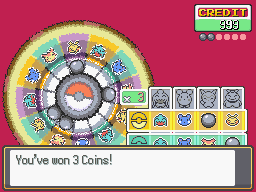
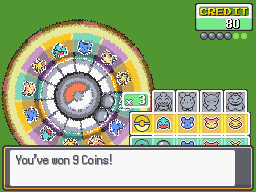
Fix roulette position when it spins

diff --git a/Script.rb b/Script.rb
@@ -36,7 +36,7 @@
 if defined?(PluginManager) && !PluginManager.installed?("Roulette Minigame")
   PluginManager.register({                                                 
     :name    => "Roulette Minigame",                                        
-    :version => "1.1",                                                     
+    :version => "1.1.1",                                                     
     :link    => "https://www.pokecommunity.com/showthread.php?t=318598",             
     :credits => "FL"
   })
@@ -108,11 +108,15 @@ class RouletteScene
       end  
       @indexX = x
       @indexY = y
-      @sprite.x=@tableX-2+@indexX*48
+      refreshSpritePos
+      resetframeCount
+    end
+
+    def refreshSpritePos(extraX=0)
+      @sprite.x=@tableX-2+@indexX*48+extraX
       @sprite.x+=4 if @indexX==0 
       @sprite.y=@tableY-2+@indexY*48
       @sprite.y+=4 if @indexY==0 
-      resetframeCount
     end
     
     def bentPositions
@@ -179,11 +183,15 @@ class RouletteScene
       @balls[i].oy=balls[i].bitmap.height
     end  
     
-    def sumX(value)
-      @roulette.x+=value
+    def x=(value)
+      @roulette.x=value
       for ball in @balls
-        ball.x+=value
+        ball.x=value
       end  
+    end
+    
+    def y=(value)
+      @roulette.y=value
     end
     
     def sumAngle(value)
@@ -211,22 +219,16 @@ class RouletteScene
       @sprites["background"].bitmap.height, @backgroundColor
     )
     @sprites["roulette"]=IconSprite.new(0,0,@viewport)
-    @sprites["roulette"].setBitmap("Graphics/Pictures/Roulette/roulette")
-    @sprites["roulette"].x=@sprites["roulette"].bitmap.width/2+4
-    @sprites["roulette"].y=Graphics.height/2    
+    @sprites["roulette"].setBitmap("Graphics/Pictures/Roulette/roulette")    
     @sprites["roulette"].ox=@sprites["roulette"].bitmap.width/2
     @sprites["roulette"].oy=@sprites["roulette"].bitmap.height/2
     @roulette=RouletteObject.new(@sprites["roulette"])
     @sprites["table"]=IconSprite.new(0,0,@viewport)
     @sprites["table"].setBitmap("Graphics/Pictures/Roulette/table")
-    @sprites["table"].x=Graphics.width-@sprites["table"].bitmap.width-10
-    @sprites["table"].y=Graphics.height-@sprites["table"].bitmap.height-10
     @sprites["multiplierbox"]=IconSprite.new(0,0,@viewport)
     @sprites["multiplierbox"].setBitmap(
       "Graphics/Pictures/Roulette/multiplierbox"
     )
-    @sprites["multiplierbox"].x=@sprites["table"].x-14
-    @sprites["multiplierbox"].y=@sprites["table"].y+6
     @sprites["multiplierbox"].z=1
     @multiplierBoxUnclampedX = @sprites["multiplierbox"].x
     @sprites["creditbox"]=IconSprite.new(0,0,@viewport)
@@ -253,9 +255,6 @@ class RouletteScene
     (COLUMNS*ROWS).times do
       @playedBalls.push(false)
     end
-    @cursor = Cursor.new(
-      @sprites["cursor"],@playedBalls,@sprites["table"].x,@sprites["table"].y
-    )
     @sprites["overlaycredits"]=BitmapSprite.new(
         Graphics.width,Graphics.height,@viewport
     )
@@ -276,13 +275,47 @@ class RouletteScene
     @framesRemainingToBlink = 0
     @displayedCredits = RouletteBridge.coins
     @exit=false
+    @tableBallPosArray = []
+    refreshBottomElementsPos
+    @cursor = Cursor.new(
+      @sprites["cursor"],@playedBalls,@sprites["table"].x,@sprites["table"].y
+    )
     drawCredits
     pbFadeInAndShow(@sprites) { update }
     displayMessage(
       _INTL("Place your wager with the arrows, then press the C key.")
     )
     drawMultiplier
-  end  
+  end
+
+  def refreshBottomElementsPos
+    @cursor.refreshSpritePos(@movedDistance) if @cursor
+    # Roulette
+    @roulette.x = [
+      @sprites["roulette"].bitmap.width/2+4 + @movedDistance/2,
+      (Graphics.width)/2 # @sprites["roulette"].bitmap.width+
+    ].min
+    @roulette.y = Graphics.height/2
+    # Table
+    @sprites["table"].x = (
+      Graphics.width-@sprites["table"].bitmap.width-10 + @movedDistance
+    )
+    @sprites["table"].y=Graphics.height-@sprites["table"].bitmap.height-10
+    for i in 0...@tableBallPosArray.size
+      @sprites["balltable#{i}"].x = @tableBallPosArray[i][0] + @movedDistance
+      @sprites["balltable#{i}"].y = @tableBallPosArray[i][1]
+    end
+    # Multiplier
+    baseMultiplierBoxX = @sprites["table"].x-14
+    @sprites["multiplierbox"].x = [
+      baseMultiplierBoxX,
+      Graphics.width-@sprites["multiplierbox"].bitmap.width-10
+    ].min
+    @sprites["multiplierbox"].y=@sprites["table"].y+6
+    @sprites["overlaymultiplier"].x = (
+      @movedDistance + @sprites["multiplierbox"].x - baseMultiplierBoxX
+    )
+  end
   
   def update
     pbUpdateSpriteHash(@sprites)
@@ -378,20 +411,7 @@ class RouletteScene
     speed = 12
     speed *= - 1 if !@centralizeRoulette # Reverse the way
     @movedDistance+=speed
-    @roulette.sumX(speed/3)
-    @sprites["table"].x+=speed
-    for i in 0...RouletteScreen.count(@playedBalls,true)
-      @sprites["balltable#{i}"].x+=speed
-    end
-    @sprites["cursor"].x+=speed
-    @multiplierBoxUnclampedX+=speed
-    @sprites["multiplierbox"].x = [
-      @multiplierBoxUnclampedX,
-      Graphics.width-@sprites["multiplierbox"].bitmap.width-10
-    ].min
-    @sprites["overlaymultiplier"].x = (
-      @movedDistance+@sprites["multiplierbox"].x-@multiplierBoxUnclampedX
-    )
+    refreshBottomElementsPos
     # The conditions for finish centralize and decentralize
     if ( 
       @centralizeRoulette && Graphics.width<(@sprites["table"].x) ||
@@ -469,10 +489,12 @@ class RouletteScene
   BLINK_LAST_WAIT = 2
 
   def endSpin
-    i=RouletteScreen.count(@playedBalls,true)
-    @sprites["balltable#{i}"].x=6+@sprites["table"].x+(@result%COLUMNS+1)*48
-    @sprites["balltable#{i}"].y=6+@sprites["table"].y+(@result/COLUMNS+1)*48
+    @tableBallPosArray.push([
+      6+@sprites["table"].x+(@result%COLUMNS+1)*48, 
+      6+@sprites["table"].y+(@result/COLUMNS+1)*48
+    ])
     @framesRemainingToBlink = (BLINK_TIMES+BLINK_LAST_WAIT)*FRAMES_PER_BLINK*2
+    refreshBottomElementsPos
   end
 
   def blink
@@ -511,6 +533,7 @@ class RouletteScene
       displayMessage(_INTL("The Roulette board will be cleared."))
       @roulette.clearBalls
       @playedBalls.clear
+      @tableBallPosArray.clear
       (COLUMNS*ROWS).times do
         @playedBalls.push(false)
       end  

diff --git a/README.md b/README.md
@@ -2,6 +2,7 @@
 This script is for Pokémon Essentials. It's the Roulette Game Corner minigame from Ruby/Sapphire/Emerald. This minigame isn't an exact adaptation of the official one, the ball never stops at an occupied slot, so there's no Taillow and Shroomish bonus.
 
 ## Screens
+![](Screens/gif.gif)
 ![](Screens/screen.png)
 ![](Screens/screen2.png)
 
